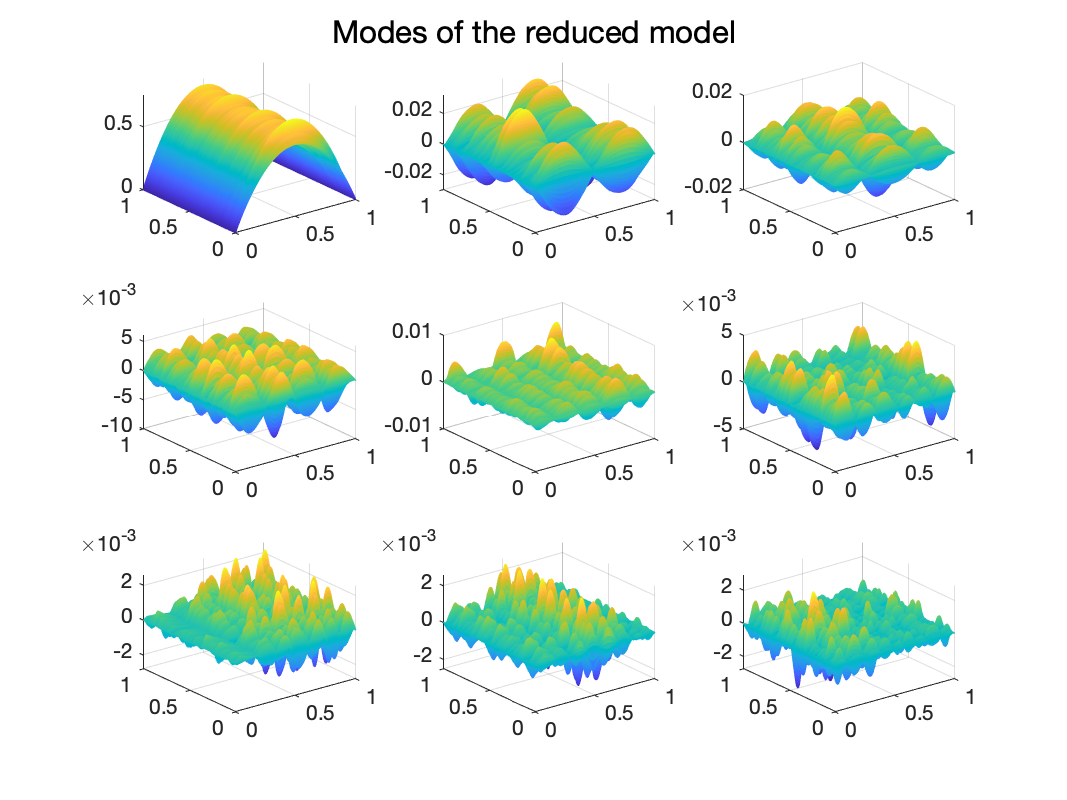
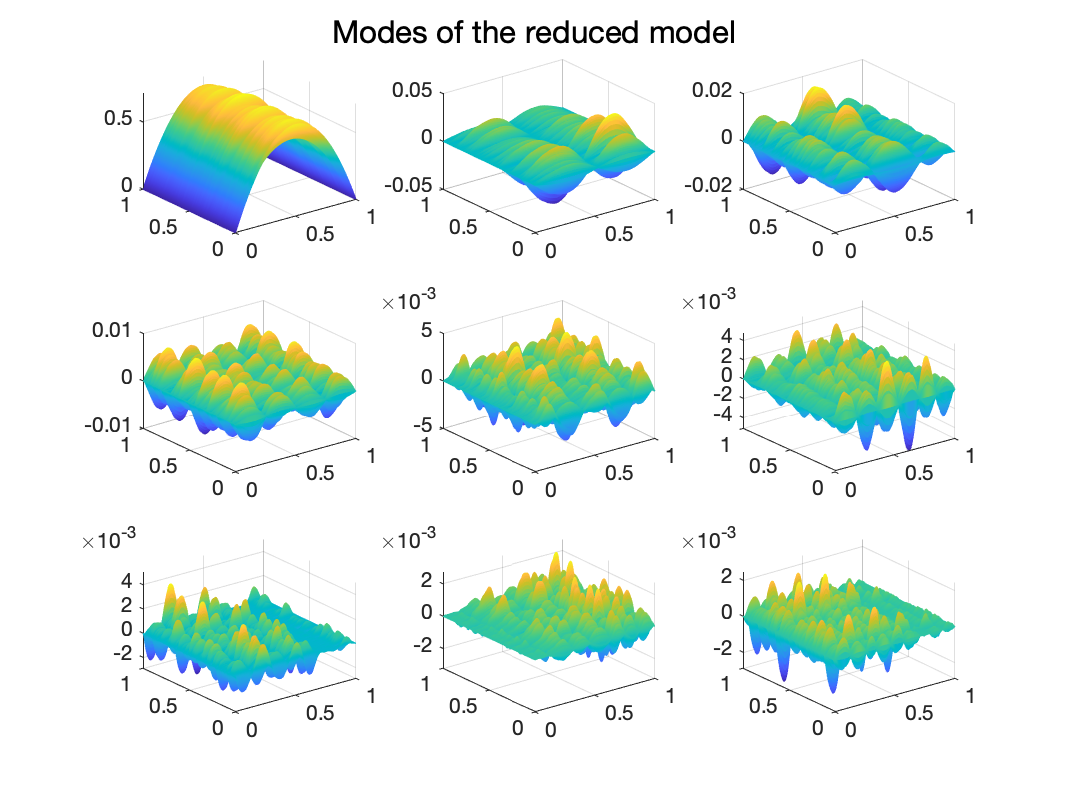
[TP2] Add images with the pgd modes (tag:w)

diff --git a/TP2_eleve/TP2_moeeze.m b/TP2_eleve/TP2_moeeze.m
@@ -41,11 +41,11 @@ udLd = -sin(4*pi*lt)/T; % boundary condition
 
 %% discrete force
 if if_force==1
-    f = (1e3 * (sin(3*pi*lt)/T)' * (sin(5*pi*lx)/L))';
+    %f = (1e3 * (sin(3*pi*lt)/T)' * (sin(5*pi*lx)/L))';
     [mesh_x_f,mesh_t_f] = meshgrid(tf,xf);
     [mesh_x_g,mesh_t_g] = meshgrid(tc,xc);
-    %fg = 10*rand(nt/10,nx/10);
-    %f = interp2(mesh_x_g,mesh_t_g,fg,mesh_x_f,mesh_t_f,'spline');
+    fg = 10*rand(nt/10,nx/10);
+    f = interp2(mesh_x_g,mesh_t_g,fg,mesh_x_f,mesh_t_f,'spline');
 end
 %%%%%%%%%%%%%%%%%%%%%%%%%%%%%%%%%%%%%%%%%%%%%%%%%%%%%%%%%%%%%%
 
@@ -121,7 +121,7 @@ U_SVD = zeros(nt,nx);
 lambda = lt;
 iter = 0;
 W = zeros(nx, nt) + ucl;
-nb_modes = 9;
+nb_modes = 30;
 error = zeros(1, nb_modes);
 error_svd = zeros(1, nb_modes);
 for i = 1:nb_modes
@@ -182,8 +182,10 @@ for i = 1:nb_modes
     title(Title2)    
     pause(0.5)
     figure(3)
-    subplot(3,3,i)
-    mesh(lx_mesh,lt_mesh,(Lambda * lambda)');
+    if i < 10
+        subplot(3,3,i)
+        mesh(lx_mesh,lt_mesh,(Lambda * lambda)');
+    end
 end
 
 u_red = W;
